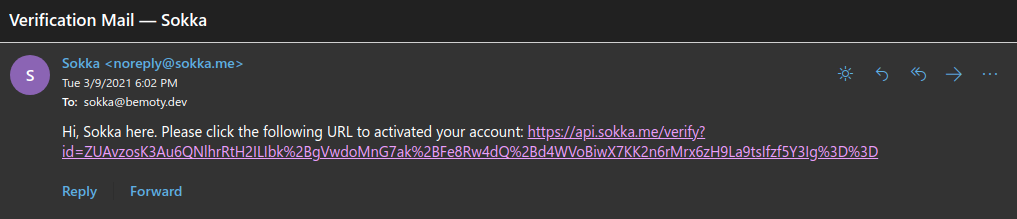
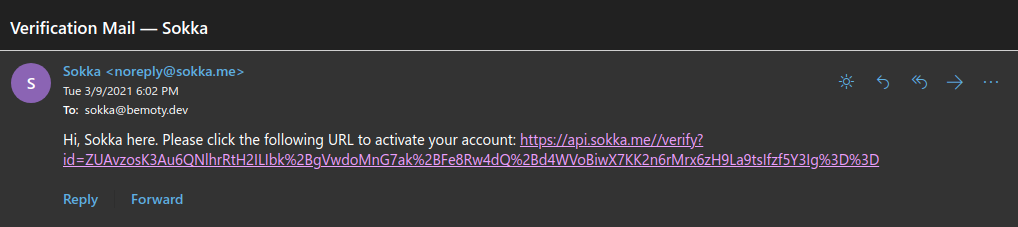
docs: completed acp documentation

diff --git a/server/src/VerificationService.ts b/server/src/VerificationService.ts
@@ -72,7 +72,7 @@ class VerificationService {
                     from: 'Sokka noreply@sokka.me',
                     to: user.email,
                     subject: 'Verification Mail — Sokka',
-                    text: `Hi, Sokka here. Please click the following URL to activated your account: ${config.readConfigValueSync('DOMAIN')}/verify?id=${encodeURIComponent(token)}`
+                    text: `Hi, Sokka here. Please click the following URL to activate your account: ${config.readConfigValueSync('DOMAIN')}/verify?id=${encodeURIComponent(token)}`
                 }, (err, info) => {
                     if (err) reject(err);
                     resolve(info);

diff --git a/server/src/routes/acp/menu/ACPGetMenuRoute.ts b/server/src/routes/acp/menu/ACPGetMenuRoute.ts
@@ -19,10 +19,14 @@ class ACPGetMenuRoute extends Route {
         try {
             const id = parseInt(String(req.query.id));
             let menus;
-            if (!isNaN(id)) {
-                menus = [await Menu.get(id)];
-            } else {
-                menus = await Menu.getAll();
+            try {
+                if (!isNaN(id)) {
+                    menus = [await Menu.get(id)];
+                } else {
+                    menus = await Menu.getAll();
+                }
+            } catch (err) {
+                menus = [];
             }
             res.send({ success: true, menus: menus });
         } catch (err) {

diff --git a/docs/parts/5-acp/1-funktion/index.tex b/docs/parts/5-acp/1-funktion/index.tex
@@ -1,8 +1,9 @@
-\chapter{Gesicherter Zugang}
+\chapter{Allgemeines zum ACP}
 
 Das \textbf{ACP} (\textit{Admin Control Panel}) stellt die zentrale Verwaltungsstelle für das Sokka-System dar. Der allgemeine Status des gesamten Systems, die registrierten Nutzer, die eingestellten Produkte bzw. Menüs und weiteres können im ACP eingesehen und bearbeitet werden.
 
 \section{Anmeldung}
+\label{acp-anmeldung}
 
 Der Zugriff zum ACP ist durch eine Anmeldemaske mit Nutzername und Passwort geschützt. Es können beliebig viele Nutzeraccounts für das ACP erstellt werden, so ist es beispielsweise möglich, dass neben einem ausgewählten Administrator beispielsweise auch der Kassierer darauf zugreifen kann.
 
@@ -23,6 +24,7 @@ Es liegt in der Natur einer React-App, welche nicht mit \textit{SSR (Server Side
 \end{figure}
 
 \section{User-System}
+\label{acp-usersystem}
 
 Die Verwaltung der ACP-Nutzerkonten läuft über die Konfigurationsseite des ACPs. Hier können neue Nutzerkonten unter \textbf{Create a new ACP user} erstellt werden oder nicht mehr benötigte Nutzerkonten in \textbf{Manage ACP users} gelöscht werden. Das Passwort für ein ACP-Nutzerkonto muss mindestens \textit{5 Zeichen lang} sein.
 
@@ -32,3 +34,27 @@ Die Verwaltung der ACP-Nutzerkonten läuft über die Konfigurationsseite des ACP
     \caption{Die Nutzerverwaltung im Sokka-ACP}
 \end{figure}
 
+\section{Routing}
+
+Da die React-App für das Sokka-ACP aus mehreren Unterseiten besteht, wird \textbf{Routing} benötigt. Dieses ist dafür verantwortlich, dass URLs wie \textit{acp.sokka.me/products} auch auf die richtige Seite, wie in diesem Fall auf die Produktübersicht, verweisen.
+
+Die Implementation des Routings im ACP geschieht durch die Library \lstinline{react-router-dom}. Diese prüft beim Zugriff auf die Website, auf welche Route zugegriffen wurde und lädt diese.
+
+\begin{code}[htp]
+    \centering
+    \includegraphics[width=1\textwidth]{images/ACP/routing.png}
+    \vspace{-25pt}
+    \caption{React-Router-Implementation des Sokka-ACPs}
+\end{code}
+
+\pagebreak
+
+Die App prüft zuerst wie in \textit{\nameref{acp-anmeldung}} erwähnt die Existenz und Gültigkeit von \lstinline{sokka_token} und \lstinline{sokka_username} Cookies. Sofern die Anmeldung gültig ist, lädt der Router normal alle konfigurierten Unterseiten oder, wenn die angeforderte URL nicht gefunden werden kann, die \textbf{404-Seite}. Wenn die Anmeldung nicht gültig ist, wird der Nutzer auf die Anmeldungsseite geleitet.
+
+\begin{figure}[ht]
+    \centering
+    \includegraphics[width=1\textwidth]{images/ACP/404.png}
+    \caption{Aufrufen einer nicht existierenden URL im Sokka-ACP}
+\end{figure}
+
+Besonders sind die Routes \lstinline{/products/:id} und \lstinline{/menus/:id}. Diese erwarten anstelle von \textit{:id} eine ID, in diesem Fall die ID des gewünschten Produkts bzw. Menüs, um die Bearbeitungsseite dessen laden zu können. Wird ein Produkt oder ein Menü abgerufen, welches nicht existiert, so erscheint ein Fehler, welcher besagt, dass das gewünschte Objekt nicht gefunden werden konnte.

diff --git a/docs/parts/5-acp/2-seiten/menus/index.tex b/docs/parts/5-acp/2-seiten/menus/index.tex
@@ -1,9 +1,36 @@
 \section{Menus}
 
-Die Menüseite erlaubt es Menüs im Sokka-System hinzuzufügen, zu bearbeiten und zu löschen.
+Die Menüseite erlaubt es, Menüs im Sokka-System hinzuzufügen, zu bearbeiten und zu löschen.
 
 \begin{figure}[ht]
     \centering
     \includegraphics[width=0.8\textwidth]{images/ACP/menus.png}
     \caption{Die Menüsseite des Sokka-ACPs}
+\end{figure}
+
+Genau wie bei den Produkten, baut die Seite zum Hinzufügen von Menüs (erreichbar über den \glqq Add menu\grqq -Button) und dem Bearbeiten von Menüs (erreichbar über den \glqq Edit\grqq -Button in den einzelnen Menükarten) auf derselben React-Component auf, weshalb das Aussehen der beiden Seiten nahezu identisch ist.
+
+Die verfügbaren und einstellbaren Eigenschaften für Menüs sind:
+
+\begin{itemize}
+    \item \textbf{Name}: Der Name des Menüs
+    \item \textbf{Price}: Der Preis des Menüs in Euro
+    \item \textbf{Category}: Die Kategorie des Menüs
+    \item \textbf{Image}: Das Vorschaubild des Menüs
+\end{itemize}
+
+Ein Menü im Sokka-System besteht immer aus Produkten im Sokka-System. Jedem Produkt in einem Menü kann ein Titel zugewiesen werden, um die Rolle des Produkts im Menü anzuzeigen (beispielsweise \glqq Starter\grqq für Vorspeisen oder \glqq Main Dish\grqq für Hauptgänge)
+
+\begin{figure}[ht]
+    \centering
+    \includegraphics[width=0.6\textwidth]{images/ACP/menus_edit.png}
+    \caption{Die Bearbeitungsseite von Menüs im Sokka-ACP}
+\end{figure}
+
+Produkte in einem Menü können über den \glqq Delete\grqq -Button entfernt werden oder deren Titel über den \glqq Edit Title\grqq -Button bearbeitet werden. Um ein neues Produkt in das Menü hinzuzufügen, kann der \glqq Add product\grqq -Button verwendet werden.
+
+\begin{figure}[ht]
+    \centering
+    \includegraphics[width=0.6\textwidth]{images/ACP/menus_add_product.png}
+    \caption{Dialog zum Hinzufügen neuer Produkte in einem Menü im Sokka-ACP}
 \end{figure}

diff --git a/docs/parts/5-acp/2-seiten/users/index.tex b/docs/parts/5-acp/2-seiten/users/index.tex
@@ -1,9 +1,19 @@
 \section{Users}
 
-Die Nutzerseite erlaubt es, registrierten Nutzern im Sokka-System eine Rabattgruppe zuzweisen oder sie komplett aus der Datenbank zu entfernen.
+Die Nutzerseite erlaubt es, registrierten Nutzern im Sokka-System eine Rabattgruppe zuzweisen oder sie komplett aus der Datenbank zu entfernen. In der Suchleiste kann nach Nutzer-E-Mail gefiltert werden.
 
 \begin{figure}[ht]
     \centering
-    \includegraphics[width=0.8\textwidth]{images/ACP/users.png}
+    \includegraphics[width=0.8\textwidth]{images/ACP/users-page.png}
     \caption{Die Nutzerseite des Sokka-ACPs}
+\end{figure}
+
+\textbf{\#} ist die interne und eindeutige Nutzer-ID, \textbf{E-Mail} die vom Nutzer angegebene E-Mail-Adresse, \textbf{Verified} ist der Status der Verifizierung des Nutzers (genaueres in Sektion \textit{\glqq\nameref{verification}\grqq} im Backend-Teil), \textbf{Group} die festgelegte Rabattgruppe (standardmäßig \textit{Default}) und Change bzw. Delete sind Aktionsspalten.
+
+Der \textit{Change}-Button in jeder Zeile erlaubt das Ändern der Rabattgruppe eines Nutzers. Rabattgruppen müssen zuerst im Reiter \textit{\glqq\nameref{acp-groups}\grqq} konfiguriert werden. Danach können erstellte Gruppen im Change-Dialog ausgewählt werden.
+
+\begin{figure}[ht]
+    \centering
+    \includegraphics[width=0.6\textwidth]{images/ACP/users_modal.png}
+    \caption{Der Dialog zum Ändern von Rabattgruppen von Nutzern im Sokka-ACP}
 \end{figure}

diff --git a/docs/parts/5-acp/2-seiten/orders/index.tex b/docs/parts/5-acp/2-seiten/orders/index.tex
@@ -4,6 +4,27 @@ Die Orderseite erlaubt es, getätigte Bestellungen von Nutzern pro Tag einzusehe
 
 \begin{figure}[ht]
     \centering
-    \includegraphics[width=0.8\textwidth]{images/ACP/users-page.png}
+    \includegraphics[width=0.8\textwidth]{images/ACP/orders.png}
     \caption{Die Bestellungsseite des Sokka-ACPs}
+\end{figure}
+
+Die Order-Seite des ACPs ist rein informativ. Hier können keine Änderungen an den Bestellungen vorgenommen werden, beispielsweise können Bestellungen im ACP nicht invalidiert werden. Für das Bearbeiten von Bestellungen existiert der \textit{\nameref{adminclient}}.
+
+Das ACP zeigt folgende Informationen pro Bestellung an:
+
+\begin{itemize}
+    \item Die ID der Bestellung
+    \item Die ID des Nutzers, der die Bestellung getätigt hat
+    \item Den Zeitpunkt der Bestellung
+    \item Den Inhalt der Bestellung
+    \item Den Preis und Rabatt der Bestellung
+    \item Die Validität der Bestellung (\textbf{VALID} bedeutet, dass die Bestellung noch nicht eingelöst wurde, \textbf{INVALIDATED} bedeutet, dass die Bestellung an der Kasse eingelöst wurde)
+\end{itemize}
+
+Der QR-Code ergibt sich aus der Bestellungs-ID und der Nutzer-ID im Format \lstinline{<userID>:<orderID>} und ist derselbe QR-Code, der auch im Client angezeigt wird.
+
+\begin{figure}[ht]
+    \centering
+    \includegraphics[width=0.7\textwidth]{images/ACP/arrow.png}
+    \caption{QR-Code-Erstellung der Bestellungen}
 \end{figure}

diff --git a/docs/parts/5-acp/2-seiten/config/index.tex b/docs/parts/5-acp/2-seiten/config/index.tex
@@ -1,9 +1,21 @@
 \section{Konfiguration}
 
-Die Konfigurationsseite erlaubt es neben der ACP-Nutzerkontoverwaltung ebenfalls ganz grundlegende Einstellungswerte für das Sokka-System festzulegen, wie beispielsweise die maximal zulässige Bestellzeit des Vortags.
+Die Konfigurationsseite erlaubt es neben der ACP-Nutzerkontoverwaltung ebenfalls ganz grundlegende Einstellungswerte für das Sokka-System festzulegen.
 
 \begin{figure}[ht]
     \centering
     \includegraphics[width=0.8\textwidth]{images/ACP/config.png}
     \caption{Die Konfigurationsseite des Sokka-ACPs}
 \end{figure}
+
+Die Funktionsweise der Nutzerverwaltung wird in der Sektion \textit{\nameref{acp-usersystem}} genauer erläutert.
+
+Zum Zeitpunkt des Schreibens gibt es auf dieser Seite nur eine Einstellung. Diese ist die \lstinline{closingTime}, welche jene Uhrzeit ist, zu der keine Bestellungen für den folgenden Tag zulässig sind. Ist die \lstinline{closingTime} beispielsweise \textit{9:00 PM}, so ist es Nutzern maximal bis 21:00 Uhr möglich Bestellungen zu tätigen, andernfalls erhalten sie im Client eine Fehlermeldung.
+
+\begin{figure}[ht]
+    \centering
+    \includegraphics[width=0.2\textwidth]{images/ACP/config_date.png}
+    \caption{Die Zeitauswahl auf der Konfigurationsseite im Sokka-ACP}
+\end{figure}
+
+Das Format der Zeit im Input-Feld passt sich dem Format des Computer an, von dem auf das ACP zugegriffen wird.

diff --git a/docs/parts/5-acp/2-seiten/products/index.tex b/docs/parts/5-acp/2-seiten/products/index.tex
@@ -1,9 +1,27 @@
 \section{Products}
 
-Die Produktseite erlaubt es Produkte im Sokka-System hinzuzufügen, zu bearbeiten und zu löschen.
+Die Produktseite erlaubt es, Produkte im Sokka-System hinzuzufügen, zu bearbeiten und zu löschen.
 
 \begin{figure}[ht]
     \centering
     \includegraphics[width=0.8\textwidth]{images/ACP/products.png}
     \caption{Die Produkteseite des Sokka-ACPs}
+\end{figure}
+
+Die Seite zum Hinzufügen von Produkten (erreichbar über den \glqq Add product\grqq -Button) und dem Bearbeiten von Produkten (erreichbar über den \glqq Edit\grqq -Button in den einzelnen Produktkarten) baut auf derselben React-Component auf, weshalb das Aussehen der beiden Seiten nahezu identisch ist.
+
+Die verfügbaren und einstellbaren Eigenschaften für Produkte sind:
+
+\begin{itemize}
+    \item \textbf{Name}: Der Name des Produkts
+    \item \textbf{Price}: Der Preis des Produkts in Euro
+    \item \textbf{Category}: Die Kategorie des Produkts
+    \item \textbf{Hidden}: Ob das Produkt dem Nutzer angezeigt werden soll
+    \item \textbf{Image}: Das Vorschaubild des Produkts
+\end{itemize}
+
+\begin{figure}[ht]
+    \centering
+    \includegraphics[width=0.8\textwidth]{images/ACP/products_edit.png}
+    \caption{Die Bearbeitungsseite von Produkten im Sokka-ACP}
 \end{figure}

diff --git a/docs/parts/5-acp/2-seiten/groups/index.tex b/docs/parts/5-acp/2-seiten/groups/index.tex
@@ -1,9 +1,20 @@
 \section{Groups}
+\label{acp-groups}
 
-Die Gruppenseite erlaubt es, neue Rabattgruppen zu erstellen, existente zu bearbeiten und nicht mehr benötigte zu löschen.
+Die Gruppenseite erlaubt es, neue Rabattgruppen zu erstellen, existente zu bearbeiten und nicht mehr benötigte zu löschen. In der Suchleiste kann nach Gruppennamen gefiltert werden.
 
 \begin{figure}[ht]
     \centering
     \includegraphics[width=0.8\textwidth]{images/ACP/groups.png}
     \caption{Die Gruppenseite des Sokka-ACPs}
+\end{figure}
+
+Wenn man für eine bestimmte Gruppe an Nutzern einen allgemein gültigen Rabatt für Bestellungen von Menüs sowie Produkten einstellen möchte, so kann man für diese Nutzer mit einem Klick auf den \glqq Create group\grqq -Button eine Rabattgruppe erstellen.
+
+Alle Rabattgruppen außer die Default-Gruppe sind löschbar. Der Name und der Rabatt der Gruppen kann über den \glqq Change\grqq -Button via Slider angepasst werden.
+
+\begin{figure}[ht]
+    \centering
+    \includegraphics[width=0.6\textwidth]{images/ACP/groups_modal.png}
+    \caption{Der Dialog zum Ändern des Rabatts von Rabattgruppen im Sokka-ACP}
 \end{figure}

diff --git a/docs/parts/4-server/index.tex b/docs/parts/4-server/index.tex
@@ -66,6 +66,7 @@ Sowohl Produkte als auch Menüs erhalten in Sokka anpassbare Bilder. Um dies zu 
 Wenn ein Bild über die ACP-Route hochgeladen wird, legt der Server das Bild mit einer zufallsgenerierten ID (16 Bytes, Hex enkodiert) in einer Docker Volume ab. Diese Bilder können dann später wieder über die zweite Route abgerufen werden.
 
 \subsection{Verifikation}
+\label{verification}
 
 Bei der Registrierung müssen Nutzer ihre E-Mail-Adresse angeben. Um sicherzugehen, dass diese Adresse auch wirklich gültig ist, wurde mit Hilfe der Library \textit{nodemailer} ein simples E-Mail-Verifikationssystem implementiert. Ein Nutzer kann erst Bestellungen tätigen, wenn sein Nutzerkonto verifiziert ist.
 

diff --git a/docs/parts/5-acp/2-seiten/home/index.tex b/docs/parts/5-acp/2-seiten/home/index.tex
@@ -8,4 +8,4 @@ Die Startseite des ACPs gibt eine allgemeine Schnellerklärung über alle Seiten
     \caption{Die Startseite des Sokka-ACPs}
 \end{figure}
 
-Die Informationen unter \textbf{System Facts} und \textbf{System Performance} aktualisieren sich alle fünf Sekunden automatisch.
+Die Informationen unter \textbf{System Facts} und \textbf{System Performance} aktualisieren sich alle fünf Sekunden automatisch. Für das Auslesen der Performance-Daten wird die Library \lstinline{os-utils} verwendet.

diff --git a/docs/parts/4-server/1-rest-documentation/acp/config/updateconfig.tex b/docs/parts/4-server/1-rest-documentation/acp/config/updateconfig.tex
@@ -24,6 +24,7 @@ $\rightarrow$ Der Anzeigename des zu aktualisierenden Config-Eintrags
 \lstinline{value: string} (optional) \\
 $\rightarrow$ Der Wert des zu aktualisierenden Config-Eintrags
 
+Wobei \lstinline{type} nur \lstinline{INTEGER}, \lstinline{STRING} oder \lstinline{TIME} sein kann.
 
 \subsubsection{Beispiel}
 
